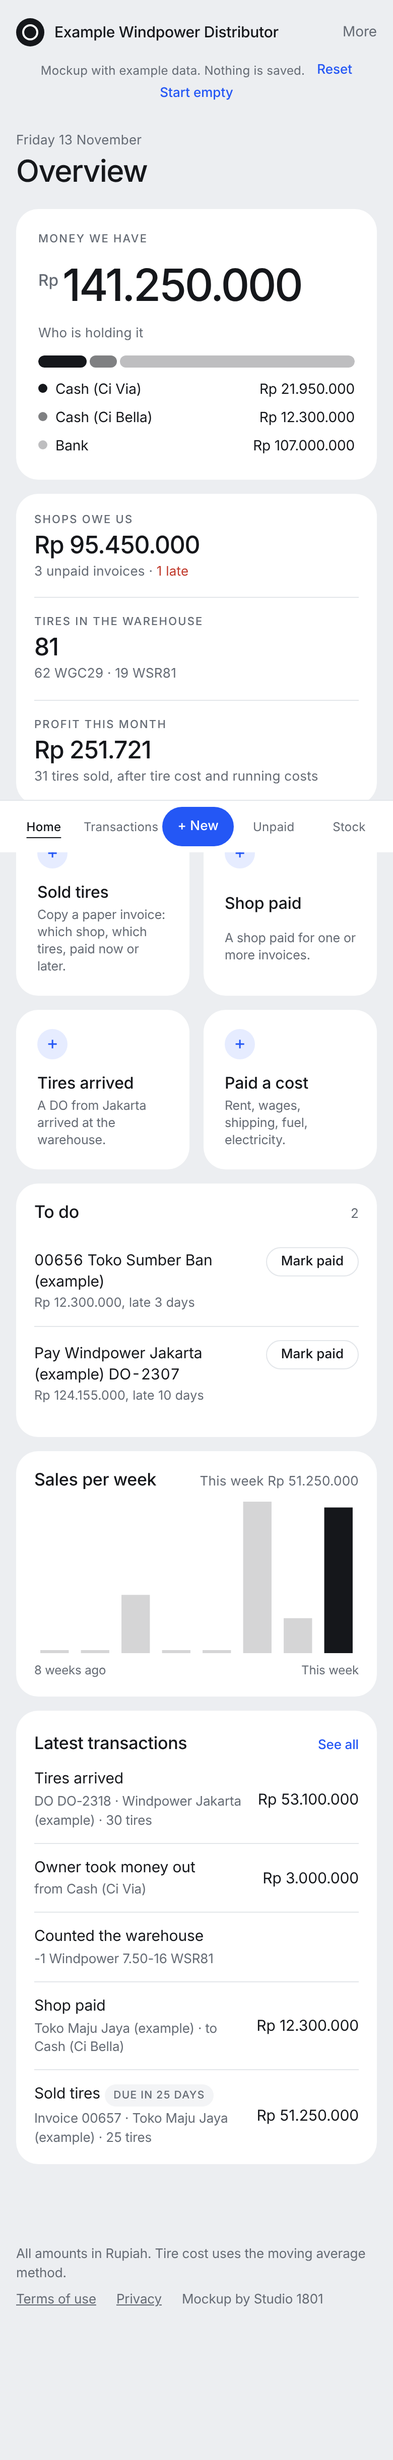
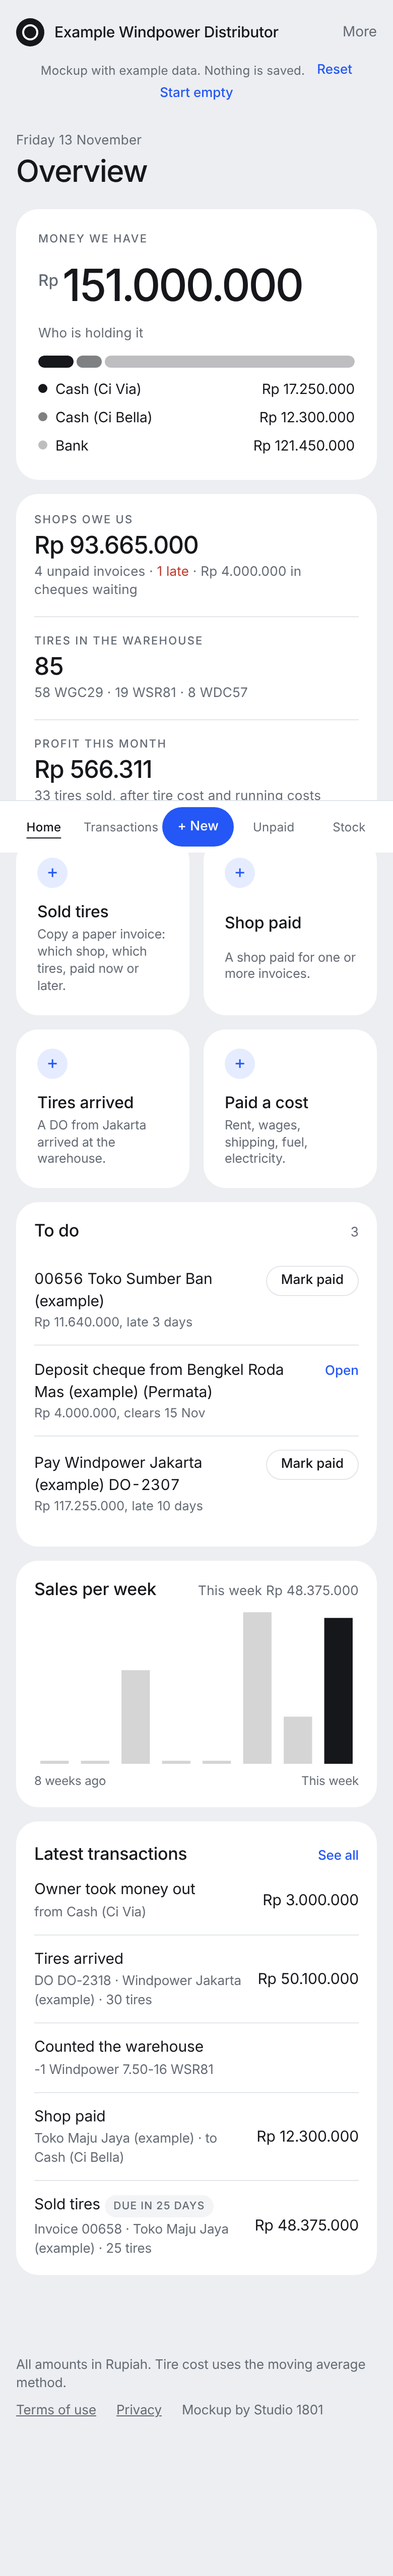
Cheques, per-shop prices, WDC57 and export in Ci Via's sheet layout
- Payment received asks cash, transfer or cheque/giro; a cheque counts as paid only from the day it clears, with reminders and a waiting list
- Sale price fills in with what that shop paid last time
- WDC57 added; example prices now vary per shop like the real sheet
- Download a month's sales with the same columns as her Excel (No, Faktur, Tgl, Store/Customer, Type, Qty, Harga/qty, Total, Payment, Notes)

Claude-Session: https://claude.ai/code/session_01Lce5qZyKVYWdepefwCyP9o

diff --git a/index.html b/index.html
@@ -415,28 +415,37 @@ S.live.entries=[];S.live.members=[];
 let _demo=null;
 function DEMO(){
   if(_demo)return _demo;
-  const products={p1:{brand:'Windpower',size:'7.50-16',pattern:'WGC29',cat:'Truck',price:2050000,low:15},p2:{brand:'Windpower',size:'7.50-16',pattern:'WSR81',cat:'Truck',price:2050000,low:15}};
-  const contacts={c1:{name:'Windpower Jakarta (example)',kind:'supplier',phone:''},c2:{name:'Toko Sumber Ban (example)',kind:'customer',phone:''},c3:{name:'Toko Maju Jaya (example)',kind:'customer',phone:''},c4:{name:'UD Lancar Lahat (example)',kind:'customer',phone:''}};
+  const products={p1:{brand:'Windpower',size:'7.50-16',pattern:'WGC29',cat:'Truck',price:1950000,low:15},p2:{brand:'Windpower',size:'7.50-16',pattern:'WSR81',cat:'Truck',price:1950000,low:15},p3:{brand:'Windpower',size:'7.50-16',pattern:'WDC57',cat:'Truck',price:1950000,low:0}};
+  const contacts={c1:{name:'Windpower Jakarta (example)',kind:'supplier',phone:''},c2:{name:'Toko Sumber Ban (example)',kind:'customer',phone:''},c3:{name:'Toko Maju Jaya (example)',kind:'customer',phone:''},c4:{name:'UD Lancar Lahat (example)',kind:'customer',phone:''},c5:{name:'Bengkel Roda Mas (example)',kind:'customer',phone:''}};
   let i=0;const E=(off,o)=>Object.assign({id:'x'+(++i),d:addDays(off),ts:i,note:''},o);
   const entries=[
-    E(-45,{t:'opening',bal:{cash:15000000,bella:0,bank:120000000},lines:[{p:'p1',q:30,c:1760000},{p:'p2',q:20,c:1790000}],recv:[{k:'c3',a:12300000,nota:'00640',due:addDays(-6)}],pay:[{k:'c1',a:35000000,nota:'DO-2291',due:addDays(-15)}]}),
-    E(-40,{t:'purchase',k:'c1',nota:'DO-2307',lines:[{p:'p1',qd:40,q:40,c:1765000},{p:'p2',qd:30,q:29,c:1795000}],extra:1500000,paid:0,acct:'bank',term:'30',due:addDays(-10),note:'One WSR81 short, claimed to Jakarta'}),
-    E(-38,{t:'sale',k:'c2',nota:'00651',lines:[{p:'p1',q:10,u:2050000}],disc:0,ship:0,term:'14',due:addDays(-24),paid:0,acct:'cash'}),
+    E(-45,{t:'opening',bal:{cash:15000000,bella:0,bank:120000000},lines:[{p:'p1',q:30,c:1660000},{p:'p2',q:20,c:1690000},{p:'p3',q:12,c:1640000}],recv:[{k:'c3',a:12300000,nota:'00640',due:addDays(-6)}],pay:[{k:'c1',a:35000000,nota:'DO-2291',due:addDays(-15)}]}),
+    E(-40,{t:'purchase',k:'c1',nota:'DO-2307',lines:[{p:'p1',qd:40,q:40,c:1665000},{p:'p2',qd:30,q:29,c:1695000}],extra:1500000,paid:0,acct:'bank',term:'30',due:addDays(-10),note:'One WSR81 short, claimed to Jakarta'}),
+    E(-38,{t:'sale',k:'c2',nota:'00651',lines:[{p:'p1',q:10,u:1935000}],disc:0,ship:0,term:'14',due:addDays(-24),paid:0,acct:'cash'}),
+    E(-36,{t:'sale',k:'c5',nota:'00652',lines:[{p:'p3',q:4,u:1950000},{p:'p1',q:2,u:1950000}],disc:0,ship:0,term:'cash',paid:11700000,acct:'cash'}),
     E(-30,{t:'pay',k:'c1',a:35000000,acct:'bank',alloc:[]}),
-    E(-28,{t:'recv',k:'c2',a:20500000,acct:'bella',alloc:[]}),
+    E(-28,{t:'recv',k:'c2',a:19350000,acct:'bella',alloc:[],method:'cash'}),
     E(-25,{t:'expense',cat:'Rent',a:3500000,acct:'bank'}),
-    E(-20,{t:'sale',k:'c3',nota:'00654',lines:[{p:'p2',q:8,u:2050000}],disc:0,ship:0,term:'cash',paid:16400000,acct:'cash'}),
-    E(-15,{t:'sale',k:'c4',nota:'00655',lines:[{p:'p1',q:12,u:2050000},{p:'p2',q:6,u:2050000}],disc:0,ship:450000,shipAcct:'cash',term:'30',due:addDays(15),paid:5000000,acct:'bank'}),
-    E(-12,{t:'transfer',from:'bella',to:'bank',a:20500000}),
-    E(-10,{t:'sale',k:'c2',nota:'00656',lines:[{p:'p1',q:6,u:2050000}],disc:0,ship:0,term:'7',due:addDays(-3),paid:0,acct:'cash'}),
+    E(-20,{t:'sale',k:'c3',nota:'00654',lines:[{p:'p2',q:8,u:1950000}],disc:0,ship:0,term:'cash',paid:15600000,acct:'bank'}),
+    E(-15,{t:'sale',k:'c4',nota:'00655',lines:[{p:'p1',q:12,u:1925000},{p:'p2',q:6,u:1925000}],disc:0,ship:450000,shipAcct:'cash',term:'30',due:addDays(15),paid:5000000,acct:'bank'}),
+    E(-12,{t:'transfer',from:'bella',to:'bank',a:19350000}),
+    E(-10,{t:'sale',k:'c2',nota:'00656',lines:[{p:'p1',q:6,u:1940000}],disc:0,ship:0,term:'7',due:addDays(-3),paid:0,acct:'cash'}),
+    E(-9,{t:'sale',k:'c5',nota:'00657',lines:[{p:'p1',q:2,u:2000000}],disc:0,ship:0,term:'30',due:addDays(21),paid:0,acct:'cash'}),
     E(-8,{t:'expense',cat:'Salaries and wages',a:6000000,acct:'cash'}),
-    E(-5,{t:'sale',k:'c3',nota:'00657',lines:[{p:'p2',q:15,u:2050000},{p:'p1',q:10,u:2050000}],disc:0,ship:0,term:'30',due:addDays(25),paid:0,acct:'cash'}),
-    E(-3,{t:'recv',k:'c3',a:12300000,acct:'bella',alloc:[]}),
+    E(-6,{t:'recv',k:'c5',a:4000000,acct:'bank',alloc:[],method:'cheque',chqBank:'Permata',clear:addDays(2)}),
+    E(-5,{t:'sale',k:'c3',nota:'00658',lines:[{p:'p2',q:15,u:1935000},{p:'p1',q:10,u:1935000}],disc:0,ship:0,term:'30',due:addDays(25),paid:0,acct:'cash'}),
+    E(-3,{t:'recv',k:'c3',a:12300000,acct:'bella',alloc:[],method:'cash'}),
     E(-2,{t:'adjust',lines:[{p:'p2',q:-1}],note:'One tire damaged in the warehouse'}),
     E(-1,{t:'draw',a:3000000,acct:'cash'}),
-    E(-1,{t:'purchase',k:'c1',nota:'DO-2318',lines:[{p:'p1',qd:30,q:30,c:1770000}],extra:0,paid:0,acct:'bank',term:'30',due:addDays(29)})
+    E(-1,{t:'purchase',k:'c1',nota:'DO-2318',lines:[{p:'p1',qd:30,q:30,c:1670000}],extra:0,paid:0,acct:'bank',term:'30',due:addDays(29)})
   ];
   _demo={products,contacts,setup:{name:'Example Windpower Distributor'},entries};return _demo;
+}
+const effDate=e=>(e.t==='recv'&&e.method==='cheque'&&e.clear)?e.clear:e.d;
+function ordered(){
+  const k='ord'+S.ver+'|'+S.demo;if(S.cache[k])return S.cache[k];
+  const pri=t=>t==='opening'?0:t==='purchase'?1:2;
+  return S.cache[k]=D().entries.slice().sort((a,b)=>{const x=effDate(a),y=effDate(b);return x<y?-1:x>y?1:(pri(a.t)-pri(b.t))||((a.ts||0)-(b.ts||0));});
 }
 function liveEntries(){
   const k='le'+S.ver;if(S.cache[k])return S.cache[k];
@@ -463,7 +472,7 @@ function compute(from,to,ex){
   let eqOpen=0,cap=0,draw=0,profit=0,open=null;
   const P={goods:0,disc:0,cogs:0,trueUp:0,exp:{},adj:0,sales:0,tires:0};
   const C={openIn:0,saleCash:0,arIn:0,capIn:0,buyCash:0,apOut:0,expOut:0,drawOut:0};
-  const recvBy={},warn=[];
+  const recvBy={},warn=[];let curD='';
   const sk=p=>st[p]||(st[p]={q:0,v:0,last:0});
   const mv=(a,x)=>{a=a||'cash';bal[a]=(bal[a]||0)+x;};
   const avg=s=>s.q>0?s.v/s.q:s.last;
@@ -474,14 +483,16 @@ function compute(from,to,ex){
   const putIn=(s,q,v)=>{let varc=0;if(s.q<0&&q>0){const cover=Math.min(-s.q,q),oldUnit=s.v/s.q,newUnit=v/q;varc=Math.round(cover*(newUnit-oldUnit));}s.q+=q;s.v+=v-varc;settle(s);return varc;};
   const addInv=(side,k,o)=>{const c=credit[side][k]||0;if(c>0){const t=Math.min(c,o.open);o.open-=t;credit[side][k]=c-t;}o.k=k;o.side=side;(inv[side][k]||(inv[side][k]=[])).push(o);byId[o.id]=o;};
   const payInv=(side,k,amt,alloc)=>{const L=inv[side][k]||[];let left=amt;
-    for(const id of alloc||[]){const o=L.find(x=>x.id===id);if(o&&left>0&&o.open>0){const t=Math.min(o.open,left);o.open-=t;left-=t;}}
-    for(const o of L.filter(x=>x.open>0.5).sort((a,b)=>a.due<b.due?-1:a.due>b.due?1:0)){if(left<=0)break;const t=Math.min(o.open,left);o.open-=t;left-=t;}
+    for(const id of alloc||[]){const o=L.find(x=>x.id===id);if(o&&left>0&&o.open>0){const t=Math.min(o.open,left);o.open-=t;left-=t;if(o.open<0.5)o.paidOn=curD;}}
+    for(const o of L.filter(x=>x.open>0.5).sort((a,b)=>a.due<b.due?-1:a.due>b.due?1:0)){if(left<=0)break;const t=Math.min(o.open,left);o.open-=t;left-=t;if(o.open<0.5)o.paidOn=curD;}
     if(left>0.5)credit[side][k]=(credit[side][k]||0)+left;};
   const owe=(side,e,tot,paid)=>{const o=tot-paid;if(o>0.5)addInv(side,e.k,{id:e.id,nota:e.nota||'',d:e.d,due:e.due||e.d,total:tot,open:o});else if(o<-0.5)credit[side][e.k]=(credit[side][e.k]||0)-o;};
-  for(const e of D().entries){
-    if(e.d>to)break;
+  const T0=today(),pending=[];
+  for(const e of ordered()){
+    const ed=effDate(e);if(ed>to)break;curD=ed;
+    if(e.t==='recv'&&e.method==='cheque'&&ed>T0){if(!(ex&&e.id===ex))pending.push(e);continue;}
     if(ex&&e.id===ex)continue;
-    const inP=e.d>=from;
+    const inP=ed>=from;
     if(inP&&!open)open={tot:Object.values(bal).reduce((a,b)=>a+b,0)};
     switch(e.t){
       case 'opening':{let tot=0;const b=Object.assign({},e.bal||{});if(e.cash)b.cash=(b.cash||0)+n(e.cash);if(e.bank)b.bank=(b.bank||0)+n(e.bank);
@@ -518,7 +529,7 @@ function compute(from,to,ex){
   const openInv=sd=>Object.values(inv[sd]).flat().filter(o=>o.open>0.5).sort((a,b)=>a.due<b.due?-1:a.due>b.due?1:0);
   const stockVal=Object.values(st).reduce((a,s)=>a+s.v,0);
   const assets=money+arTot+stockVal,equity=eqOpen+cap-draw+profit;
-  return S.cache[key]={st,bal,money,ar,ap,arTot,apTot,arGross:gross('ar'),arCredit:cred('ar'),apGross:gross('ap'),apCredit:cred('ap'),inv,byId,openAR:openInv('ar'),openAP:openInv('ap'),credit,open,P,C,recvBy,warn,stockVal,assets,equity,eqOpen,cap,draw,profit,diff:assets-apTot-equity};
+  return S.cache[key]={pending,st,bal,money,ar,ap,arTot,apTot,arGross:gross('ar'),arCredit:cred('ar'),apGross:gross('ap'),apCredit:cred('ap'),inv,byId,openAR:openInv('ar'),openAP:openInv('ap'),credit,open,P,C,recvBy,warn,stockVal,assets,equity,eqOpen,cap,draw,profit,diff:assets-apTot-equity};
 }
 const now=()=>compute(START,FAR);
 function status(o){const t=today();if(o.due<t){const k=daysBetween(o.due,t);return {late:true,txt:`Late ${k} day${k===1?'':'s'}`};}const k=daysBetween(t,o.due);return {late:false,txt:k===0?'Due today':`Due in ${k} day${k===1?'':'s'}`};}
@@ -584,6 +595,7 @@ function describe(e,c){
     default:return '';
   }
 }
+function lastPrice(k,p){if(!k||!p)return 0;const L=D().entries;for(let i=L.length-1;i>=0;i--){const e=L[i];if(e.t==='sale'&&e.k===k){const l=(e.lines||[]).find(x=>x.p===p&&n(x.q)>0);if(l)return n(l.u);}}return 0;}
 function nextNota(){
   let best=null;for(const e of D().entries){if(e.t!=='sale'||!e.nota)continue;const m=String(e.nota).match(/^(\D*)(\d+)(\D*)$/);if(!m)continue;const v=parseInt(m[2],10);if(!best||v>best.v)best={v,m};}
   if(!best)return '';return best.m[1]+String(best.v+1).padStart(best.m[2].length,'0')+best.m[3];
@@ -611,7 +623,7 @@ function skeleton(){return `<section class="wrap" aria-busy="true"><span class="
 function newDraft(t,d){
   const la=lsGet('tsb-acct')||accts()[0].id;
   const dr={t,d:d||today(),k:'',nota:'',term:'cash',due:'',lines:[{p:'',q:'',qd:'',x:''}],disc:'',ship:'',shipAcct:la,extra:'',paid:'',acct:la,a:'',cat:cats()[0],note:'',
-    from:accts().some(a=>a.id==='bella')?'bella':accts()[0].id,to:accts().some(a=>a.id==='bank')?'bank':accts()[accts().length-1].id,bal:{},recv:[],pay:[],alloc:[]};
+    from:accts().some(a=>a.id==='bella')?'bella':accts()[0].id,to:accts().some(a=>a.id==='bank')?'bank':accts()[accts().length-1].id,bal:{},recv:[],pay:[],alloc:[],method:'cash',chqBank:'',clear:''};
   if(t==='sale')dr.nota=nextNota();
   if(t==='purchase'){dr.k=lastSupplier();dr.term='30';dr.acct=accts().some(a=>a.id==='bank')?'bank':la;}
   if(t==='pay'){dr.k=lastSupplier();dr.acct=accts().some(a=>a.id==='bank')?'bank':la;}
@@ -625,7 +637,7 @@ function draftFrom(e){
   d.cat=e.cat||d.cat;d.from=e.from||'cash';d.to=e.to||(d.from==='bank'?'cash':'bank');
   const b=Object.assign({},e.bal||{});if(e.cash)b.cash=(b.cash||0)+n(e.cash);if(e.bank)b.bank=(b.bank||0)+n(e.bank);d.bal={};for(const k in b)d.bal[k]=fmt(b[k]);
   d.recv=(e.recv||[]).map(r=>({name:cname(r.k),a:fmt(r.a),nota:r.nota||'',due:r.due||''}));d.pay=(e.pay||[]).map(r=>({name:cname(r.k),a:fmt(r.a),nota:r.nota||'',due:r.due||''}));
-  d.alloc=(e.alloc||[]).slice();
+  d.alloc=(e.alloc||[]).slice();d.method=e.method||'cash';d.chqBank=e.chqBank||'';d.clear=e.clear||'';
   return d;
 }
 function dueOf(d){if(d.term==='cash')return '';if(d.term==='date')return d.due||'';return addDaysTo(d.d,parseInt(d.term,10)||0);}
@@ -687,7 +699,9 @@ function formHTML(){
     ${termsHTML('Paid now as a deposit (optional)','Money received by')}${note}`;
   else if(t==='purchase')body=`<div class="grid2">${date}${F('DO number',I('nota','class="notano" placeholder="DO number"'))}${F('Supplier',I('k','list="dl-contacts"'))}</div>${linesHTML('purchase')}
     <div class="grid2">${F('Truck or delivery cost',I('extra',MONEY+' placeholder="0"'))}</div>${termsHTML('Paid now (optional)','Paid from')}${note}`;
-  else if(t==='recv'||t==='pay')body=`<div class="grid2">${date}${F(t==='recv'?'Shop':'Supplier',I('k','list="dl-contacts"'))}${F('Amount',I('a',MONEY))}${F(t==='recv'?'Money received by':'Paid from',acctSel('acct',d.acct))}</div>
+  else if(t==='recv'||t==='pay')body=`${t==='recv'?`<div class="stack" style="gap:10px"><span class="micro">How did they pay?</span><div class="seg" role="group" aria-label="How did they pay">${[['cash','Cash'],['transfer','Bank transfer'],['cheque','Cheque or giro']].map(([v,l])=>`<button type="button" data-act="method" data-v="${v}" aria-pressed="${d.method===v}">${l}</button>`).join('')}</div></div>`:''}
+    <div class="grid2">${date}${F(t==='recv'?'Shop':'Supplier',I('k','list="dl-contacts"'))}${F('Amount',I('a',MONEY))}${F(t==='recv'?(d.method==='cheque'?'Will be deposited into':d.method==='transfer'?'Transferred into':'Money received by'):'Paid from',acctSel('acct',d.acct))}
+    ${t==='recv'&&d.method==='cheque'?F('Bank on the cheque',I('chqBank','placeholder="Permata, BCA, BRI"'))+F('Clears on',`<input type="date" id="f-clear" data-f="clear" value="${esc(d.clear)}">`):''}</div>
     <div class="stack" style="gap:6px"><span class="micro">${t==='recv'?'Which invoices does this pay?':'Which DOs does this pay?'}</span><div id="allocBox"></div></div>${note}`;
   else if(t==='expense')body=`<div class="grid2">${date}${F('What for',`<select id="f-cat" data-f="cat">${cats().map(c=>`<option${c===d.cat?' selected':''}>${esc(c)}</option>`).join('')}</select>`)}${F('Amount',I('a',MONEY))}${F('Paid from',acctSel('acct',d.acct))}</div>${note}`;
   else if(t==='adjust')body=`<div class="grid2">${date}</div>${linesHTML('adjust')}${note}`;
@@ -737,6 +751,7 @@ function updateNota(){
     else{if(T.paid)h+=ln(`Paid now, ${esc(aname(d.acct))}`,fmt(T.paid));h+=ln(t==='sale'?'Still to collect':'Still to pay',`<span class="${rest<0?'neg':''}">${fmt(rest)}</span>`);h+=ln('Due',due?nice(due):'<span class="neg">Pick a date</span>');}
     if(t==='sale'&&valid.length){
       let cost=0;const w=[];valid.forEach(l=>{const s=c.st[l.p]||{q:0,v:0,last:0};const a=s.q>0?s.v/s.q:s.last;cost+=n(l.q)*a;if(n(l.q)>s.q&&!S.editing)w.push(`Only ${s.q} of ${pH(l.p)} on record.`);});
+      const kk=cidByName(d.k);valid.forEach(l=>{const lp=lastPrice(kk,l.p);if(lp&&lp!==n(l.x))h+=`<p class="small">${esc(d.k)} paid ${rp(lp)} for ${pH(l.p)} last time.</p>`;});
       h+='<hr>'+ln('What these tires cost you',fmt(cost));if(n(d.ship))h+=ln('Shipping',`-${fmt(n(d.ship))}`);h+=ln('You make on this invoice',M(T.total-cost-n(d.ship)));
       if(w.length)h+=`<p class="small neg">${w.join(' ')} Record the goods received first, or the profit will look too high.</p>`;
     }
@@ -745,7 +760,8 @@ function updateNota(){
     const tot=valid.reduce((a,l)=>{const s=c.st[l.p]||{q:0,v:0,last:0};return a+n(l.q)*(s.q>0?s.v/s.q:s.last);},0);
     h+=`<hr><span class="micro">Effect on profit</span><div class="big">${M(tot)}</div>`;
   }else if(t==='recv'||t==='pay'){
-    h+=`<div class="big">${M(T.total)}</div>`+ln(t==='recv'?'Received by':'Paid from',esc(aname(d.acct)));
+    h+=`<div class="big">${M(T.total)}</div>`+ln(t==='recv'?(d.method==='cheque'?'Deposit into':'Received by'):'Paid from',esc(aname(d.acct)));
+    if(t==='recv'&&d.method==='cheque'&&d.clear)h+=`<p class="small">Cheque${d.chqBank?' '+esc(d.chqBank):''}, clears ${esc(nice(d.clear))}. ${d.clear>today()?'Until then the invoice stays unpaid, marked as cheque waiting, and the money is not counted yet.':'Already cleared, so it counts as paid.'}</p>`;
     const k=cidByName(d.k);if(k){const side=t==='recv'?'ar':'ap';const list=openFor(side,k);const sim=simulate(list,T.total,d.alloc);
       const used=sim.L.filter(x=>x.take>0);if(used.length)h+='<hr>'+used.map(x=>ln(`<span class="notano">${esc(x.o.nota||'No number')}</span>`,x.left<0.5?'Fully paid':`${fmt(x.take)} paid, ${fmt(x.left)} left`)).join('');
       if(sim.left>0.5)h+=`<p class="small">${fmt(sim.left)} more than what is owed. Kept as credit for the next ${side==='ar'?'invoice':'DO'}.</p>`;
@@ -775,7 +791,7 @@ function mountForm(){
     if(el.dataset.alloc){const id=el.dataset.alloc;d.alloc=d.alloc.filter(x=>x!==id);if(el.checked)d.alloc.push(id);
       const k=cidByName(d.k),list=openFor(d.t==='recv'?'ar':'ap',k);const sum=list.filter(o=>d.alloc.includes(o.id)).reduce((s,o)=>s+o.open,0);
       if(d.alloc.length){d.a=fmt(sum);const ai=$('#f-a');if(ai)ai.value=d.a;}updateNota();return;}
-    if(el.dataset.lf==='p'&&d.t==='sale'){const l=d.lines[+el.dataset.li];const p=D().products[l.p];if(p&&!n(l.x)&&n(p.price)){l.x=fmt(p.price);const x=$('#l-'+el.dataset.li+'-x');if(x)x.value=l.x;}updateNota();}
+    if(el.dataset.lf==='p'&&d.t==='sale'){const l=d.lines[+el.dataset.li];const p=D().products[l.p];const lp=lastPrice(cidByName(d.k),l.p);if(p&&!n(l.x)&&(lp||n(p.price))){l.x=fmt(lp||p.price);const x=$('#l-'+el.dataset.li+'-x');if(x)x.value=l.x;}updateNota();}
     if(el.dataset.f==='ship'){drawForm();return;}
     if(el.dataset.f==='acct'){lsSet('tsb-acct',el.value);}
     if(el.dataset.f)updateNota();});
@@ -783,6 +799,7 @@ function mountForm(){
   a.addEventListener('submit',ev=>{ev.preventDefault();doSave();});
   a.addEventListener('click',async ev=>{const b=ev.target.closest('[data-act]');if(!b)return;const d=S.draft,act=b.dataset.act;
     if(act==='type'){S.draft=newDraft(b.dataset.t,d.d);drawForm();}
+    else if(act==='method'){d.method=b.dataset.v;if(d.method==='cheque'&&!d.clear)d.clear=addDaysTo(d.d,14);if(d.method!=='cash'&&accts().some(a=>a.id==='bank'))d.acct='bank';drawForm();}
     else if(act==='term'){d.term=b.dataset.v;if(d.term==='date'&&!d.due)d.due=addDaysTo(d.d,30);drawForm();}
     else if(act==='addline'){d.lines.push({p:'',q:'',qd:'',x:''});drawForm();}
     else if(act==='rmline'){d.lines.splice(+b.dataset.i,1);if(!d.lines.length)d.lines.push({p:'',q:'',qd:'',x:''});drawForm();}
@@ -823,6 +840,7 @@ async function doSave(){
     if(d.term!=='cash'&&!dueOf(d))return err('Pick the due date.');
   }
   if((t==='recv'||t==='pay')&&!d.k.trim())return err(t==='recv'?'Which shop paid?':'Who did you pay?');
+  if(t==='recv'&&d.method==='cheque'){if(!d.clear)return err('Pick the date the cheque clears.');if(d.clear<d.d)return err('The cheque cannot clear before the day you received it.');}
   if(['recv','pay','expense','capital','draw','transfer'].includes(t)&&!needAmt())return;
   if(t==='transfer'&&d.from===d.to)return err('From and To must be different.');
   if(t==='adjust'&&!lines.length)return err('Add at least one tire with a difference.');
@@ -833,6 +851,7 @@ async function doSave(){
     if(t==='sale')Object.assign(e,{nota,lines:lines.map(l=>({p:l.p,q:n(l.q),u:n(l.x)})),disc:n(d.disc),ship:n(d.ship),shipAcct:d.shipAcct||d.acct,term:d.term,due:dueOf(d),paid:T.paid,acct:d.acct});
     if(t==='purchase')Object.assign(e,{nota,lines:lines.map(l=>({p:l.p,qd:l.qd===''?n(l.q):n(l.qd),q:n(l.q),c:n(l.x)})),extra:n(d.extra),term:d.term,due:dueOf(d),paid:T.paid,acct:d.acct});
     if(t==='recv'||t==='pay')Object.assign(e,{a:n(d.a),acct:d.acct,alloc:d.alloc.slice()});
+    if(t==='recv'){e.method=d.method;if(d.method==='cheque'){e.chqBank=(d.chqBank||'').trim();e.clear=d.clear;}}
     if(t==='capital'||t==='draw')Object.assign(e,{a:n(d.a),acct:d.acct});
     if(t==='expense')Object.assign(e,{a:n(d.a),acct:d.acct,cat:d.cat});
     if(t==='transfer')Object.assign(e,{a:n(d.a),from:d.from,to:d.to});
@@ -873,7 +892,7 @@ function shortDesc(e){
   const q=(e.lines||[]).reduce((a,l)=>a+n(l.q),0),P=[];
   switch(e.t){
     case 'sale':P.push(e.nota&&'Invoice '+e.nota,cname(e.k),q+' tires');break;
-    case 'recv':P.push(cname(e.k),'to '+aname(e.acct));break;
+    case 'recv':P.push(cname(e.k),e.method==='cheque'?`cheque${e.chqBank?' '+e.chqBank:''}, clears ${short(e.clear)}`:(e.method==='transfer'?'transfer to ':'to ')+aname(e.acct));break;
     case 'purchase':P.push(e.nota&&'DO '+e.nota,cname(e.k),q+' tires');break;
     case 'pay':P.push(cname(e.k),'from '+aname(e.acct));break;
     case 'expense':P.push(e.cat,'from '+aname(e.acct));break;
@@ -889,6 +908,7 @@ function txnRow(e,c){
   const tot=entryTotal(e),o=c.byId[e.id];let chip='';
   if(e.t==='sale'&&o&&o.open>0.5)chip=stTag(o);
   if(e.t==='purchase'&&(e.lines||[]).some(l=>l.qd!=null&&n(l.qd)!==n(l.q)))chip='<span class="tag late">Count differs</span>';
+  if(e.t==='recv'&&e.method==='cheque'&&e.clear>today())chip='<span class="tag">Cheque waiting</span>';
   return `<button type="button" class="txn" data-act="view" data-id="${e.id}"><span class="tk">${esc(TYPES[e.t])} ${chip}</span><span class="tdsc">${shortDesc(e)}</span><span class="tamt">${tot==null?'':M(tot)}</span></button>`;
 }
 function effects(e){
@@ -898,7 +918,8 @@ function effects(e){
       if(paid)L.push(`${rp(paid)} received by ${aname(e.acct)}`);
       if(rest>0.5)L.push(`${cname(e.k)} owes ${rp(rest)} more, due ${nice(e.due)}`);
       if(n(e.ship))L.push(`Shipping ${rp(e.ship)} paid from ${aname(e.shipAcct||e.acct)}`);break;}
-    case 'recv':L.push(`${rp(e.a)} received by ${aname(e.acct)}`,`${cname(e.k)} owes ${rp(e.a)} less`);break;
+    case 'recv':if(e.method==='cheque'&&e.clear>today())L.push(`Cheque${e.chqBank?' '+e.chqBank:''} for ${rp(e.a)} waiting, clears ${nice(e.clear)}`,`From that day: ${aname(e.acct)} +${rp(e.a)}, ${cname(e.k)} owes ${rp(e.a)} less`);
+      else L.push(`${rp(e.a)} received${e.method==='cheque'?' (cheque cleared '+nice(e.clear)+')':''} by ${aname(e.acct)}`,`${cname(e.k)} owes ${rp(e.a)} less`);break;
     case 'purchase':{const tot=entryTotal(e),paid=n(e.paid);L.push(`Warehouse: ${qty} tires in`);
       (e.lines||[]).filter(l=>l.qd!=null&&n(l.qd)!==n(l.q)).forEach(l=>L.push(`${pname(l.p)}: DO says ${n(l.qd)}, warehouse counted ${n(l.q)}`));
       if(paid)L.push(`${rp(paid)} paid from ${aname(e.acct)}`);
@@ -924,6 +945,7 @@ function detailRows(e){
   const tot=entryTotal(e);if(tot!=null&&e.t!=='opening')add('Total',`<strong>${M(tot)}</strong>`);
   if(e.t==='sale'||e.t==='purchase')add('Payment',!e.term||e.term==='cash'?'Paid in full':`${e.term==='date'?'Credit':e.term+' days'}, due ${esc(nice(e.due))}${n(e.paid)?`, ${rp(e.paid)} paid now`:''}`);
   if(e.t==='expense')add('For',esc(e.cat));
+  if(e.t==='recv')add('How paid',e.method==='cheque'?`Cheque${e.chqBank?' '+esc(e.chqBank):''}, clears ${esc(nice(e.clear))}`:e.method==='transfer'?'Bank transfer':'Cash');
   if((e.t==='sale'&&n(e.paid))||e.t==='recv')add('Received by',esc(aname(e.acct)));
   if(['pay','expense','draw'].includes(e.t)||(e.t==='purchase'&&n(e.paid)))add('Paid from',esc(aname(e.acct)));
   if(e.t==='capital')add('Into',esc(aname(e.acct)));
@@ -957,6 +979,7 @@ function pageOverview(){
   const legend=holders.map(h=>`<div><span><i style="background:var(--ink);opacity:${h.o}"></i>${esc(h.name)}</span><span>${M(h.v)}</span></div>`).join('');
   const todo=[];
   late.forEach(o=>todo.push(`<div class="lrow"><span><span class="notano">${esc(o.nota||'No number')}</span> ${esc(cname(o.k))}<span class="ex neg">${rp(o.open)}, ${status(o).txt.toLowerCase()}</span></span>${editable()?`<button class="btn sm" data-act="pay-nota" data-id="${esc(o.id)}">Mark paid</button>`:''}</div>`));
+  c.pending.filter(e=>daysBetween(today(),e.clear)<=3).sort((a,b)=>a.clear<b.clear?-1:1).forEach(e=>todo.push(`<div class="lrow"><span>Deposit cheque from ${esc(cname(e.k))}${e.chqBank?' ('+esc(e.chqBank)+')':''}<span class="ex">${rp(e.a)}, clears ${esc(short(e.clear))}</span></span><button class="link" data-act="view" data-id="${e.id}">Open</button></div>`));
   apLate.forEach(o=>todo.push(`<div class="lrow"><span>Pay ${esc(cname(o.k))} <span class="notano">${esc(o.nota||'')}</span><span class="ex">${rp(o.open)}, ${status(o).txt.toLowerCase()}</span></span>${editable()?`<button class="btn sm" data-act="pay-do" data-id="${esc(o.id)}">Mark paid</button>`:''}</div>`));
   for(const [pid,s] of Object.entries(c.st)){const p=d.products[pid];if(!p)continue;if(s.q<0)todo.push(`<div class="lrow"><span>${pH(pid)}<span class="ex neg">Below zero. A DO is probably missing.</span></span><a class="link" href="#stock">Check</a></div>`);else if(n(p.low)&&s.q<=n(p.low))todo.push(`<div class="lrow"><span>${pH(pid)}<span class="ex">Only ${s.q} left. Time to request from Jakarta.</span></span></div>`);}
   const recent=d.entries.slice(-5).reverse().map(e=>txnRow(e,c)).join('');
@@ -968,7 +991,7 @@ function pageOverview(){
       <div class="card hero"><span class="micro">Money we have</span><span class="hero-n"><span class="cur">Rp</span>${fmt(c.money)}</span>
         <div class="stack" style="gap:12px"><span class="small">Who is holding it</span><div class="splitbar">${split}</div><div class="legend">${legend}</div></div></div>
       <div class="card side">
-        <a class="kpi" href="#unpaid"><span class="micro">Shops owe us</span><span class="mid">${rp(c.arTot)}</span><span class="small">${c.openAR.length} unpaid invoice${c.openAR.length===1?'':'s'}${late.length?` · <span class="neg">${late.length} late</span>`:''}</span></a>
+        <a class="kpi" href="#unpaid"><span class="micro">Shops owe us</span><span class="mid">${rp(c.arTot)}</span><span class="small">${c.openAR.length} unpaid invoice${c.openAR.length===1?'':'s'}${late.length?` · <span class="neg">${late.length} late</span>`:''}${c.pending.length?` · ${rp(c.pending.reduce((a,e)=>a+n(e.a),0))} in cheques waiting`:''}</span></a>
         <a class="kpi" href="#stock"><span class="micro">Tires in the warehouse</span><span class="mid">${qty}</span><span class="small">${perTire||'No tires yet'}</span></a>
         <div class="kpi"><span class="micro">Profit this month</span><span class="mid ${Math.round(m.P.profit)<0?'neg':''}">${rp(m.P.profit)}</span><span class="small">${m.P.tires} tires sold, after tire cost and running costs</span></div>
       </div>
@@ -1010,7 +1033,7 @@ function pageView(){
   <div class="hgrid2" style="margin-top:22px"><div class="card"><h2 class="ch" style="margin-bottom:6px">What was recorded</h2>${kvList(detailRows(e))}</div>
   <div class="card"><h2 class="ch" style="margin-bottom:6px">What it changed</h2>${effList(effects(e))}
   ${editable()?`<div class="row" style="margin-top:22px"><button class="btn primary" data-act="edit" data-id="${e.id}">Fix this</button>${o&&o.open>0.5?`<button class="btn" data-act="${o.side==='ar'?'pay-nota':'pay-do'}" data-id="${esc(o.id)}">Mark paid</button>`:''}<button class="link danger" data-act="del" data-id="${e.id}">${S.delArm===e.id?'Tap again to delete':'Delete'}</button></div>
-  <p class="small" style="margin-top:12px">Typed something wrong? Press Fix this, correct it and save. Every number and report updates by itself.</p>`:''}</div></div></section>`;
+  <p class="small" style="margin-top:12px">Typed something wrong? Press Fix this, correct it and save. Every number and report updates by itself.${e.t==='recv'&&e.method==='cheque'?' Cheque bounced? Delete this payment and the invoice becomes unpaid again.':''}</p>`:''}</div></div></section>`;
 }
 
 /* ---------- transactions list ---------- */
@@ -1032,18 +1055,21 @@ function pageJournal(){
   <label class="fld" style="flex:0 1 190px"><span class="micro">Month</span><input type="month" id="jr-month" value="${esc(j.month)}"></label></div>
   <div class="seg" style="margin-top:14px">${GROUPS.map(([v,l])=>`<button type="button" data-act="jr-g" data-v="${v}" aria-pressed="${(j.g||'all')===v}">${l}</button>`).join('')}</div>
   <div id="jrList" class="card list" style="margin-top:14px">${journalList()}</div>
-  <div class="row" style="margin-top:22px"><button class="link" data-act="jr-all">${j.month?'Show every month':'Show this month only'}</button><button class="link" data-act="export-journal">Download all as a spreadsheet (CSV)</button></div></section>`;
+  <div class="row" style="margin-top:22px"><button class="link" data-act="jr-all">${j.month?'Show every month':'Show this month only'}</button><button class="link" data-act="export-sheet">Download this month's sales in Ci Via's Excel layout</button><button class="link" data-act="export-journal">Download everything (CSV)</button></div></section>`;
 }
 
 /* ---------- unpaid ---------- */
 function pageUnpaid(){
   const c=now(),ed=editable(),ar=c.openAR,late=ar.filter(o=>status(o).late);
-  const row=(o,act)=>{const s=status(o);return `<div class="urow"><div><span class="notano">${esc(o.nota||'No number')}</span> ${esc(cname(o.k))}<div class="small ${s.late?'neg':''}">${esc(s.txt)} · ${esc(short(o.due))}${o.open<o.total-0.5?` · ${rp(o.total-o.open)} of ${rp(o.total)} paid`:''}</div></div><span class="uamt ${s.late?'neg':''}">${rp(o.open)}</span>${ed?`<button class="btn sm" data-act="${act}" data-id="${esc(o.id)}">Mark paid</button>`:''}</div>`;};
+  const row=(o,act)=>{const s=status(o);return `<div class="urow"><div><span class="notano">${esc(o.nota||'No number')}</span> ${esc(cname(o.k))}<div class="small ${s.late?'neg':''}">${esc(s.txt)} · ${esc(short(o.due))}${o.open<o.total-0.5?` · ${rp(o.total-o.open)} of ${rp(o.total)} paid`:''}</div>${o.side==='ar'?chqFor(o).map(e=>`<div class="small"><span class="tag">Cheque waiting</span> ${rp(e.a)}${e.chqBank?' '+esc(e.chqBank):''}, clears ${esc(short(e.clear))}</div>`).join(''):''}</div><span class="uamt ${s.late?'neg':''}">${rp(o.open)}</span>${ed?`<button class="btn sm" data-act="${act}" data-id="${esc(o.id)}">Mark paid</button>`:''}</div>`;};
   const credits=Object.entries(c.credit.ar).filter(([k,v])=>v>0.5);
+  const chq=c.pending.slice().sort((a,b)=>a.clear<b.clear?-1:1),chqTot=chq.reduce((a,e)=>a+n(e.a),0);
+  const chqFor=o=>chq.filter(e=>e.k===o.k&&(!(e.alloc||[]).length||(e.alloc||[]).includes(o.id)));
   return `<section class="wrap"><h1 class="h1">Unpaid invoices</h1>
   <p style="margin-top:14px;font-size:17px">Shops owe <strong>${rp(c.arTot)}</strong> on ${ar.length} invoice${ar.length===1?'':'s'}.${late.length?` <span class="neg">${late.length} ${late.length===1?'is':'are'} late.</span>`:''}</p>
   <p class="hint" style="margin-top:6px">When a shop pays anyone (Ci Via, Ci Bella or the bank), press Mark paid and choose who received the money.</p>
   <div class="card list" style="margin-top:20px">${ar.map(o=>row(o,'pay-nota')).join('')||'<p class="small" style="padding-block:14px">Every invoice is paid.</p>'}</div>
+  ${chq.length?`<div class="card list" style="margin-top:14px"><div class="chead" style="padding-top:16px;margin-bottom:0"><h2 class="ch">Cheques waiting to clear</h2><span class="small">${rp(chqTot)}</span></div>${chq.map(e=>`<button type="button" class="txn" data-act="view" data-id="${e.id}"><span class="tk">${esc(cname(e.k))}${e.chqBank?' · '+esc(e.chqBank):''}</span><span class="tdsc">Clears ${esc(nice(e.clear))}. Counted as paid from that day.</span><span class="tamt">${rp(e.a)}</span></button>`).join('')}</div>`:''}
   ${credits.length?`<p class="small" style="margin-top:14px">${credits.map(([k,v])=>`${esc(cname(k))} paid ${rp(v)} too much. It will go toward their next invoice.`).join(' ')}</p>`:''}</section>
   <div><section class="wrap"><details class="card" ${c.openAP.length?'open':''}><summary style="font-size:15px">What you still owe Jakarta and suppliers: ${rp(c.apTot)}</summary>
   <div style="margin-top:12px">${c.openAP.map(o=>row(o,'pay-do')).join('')||'<p class="small">Nothing owed.</p>'}</div></details></section></div>`;
@@ -1226,6 +1252,15 @@ document.addEventListener('click',async ev=>{
   else if(act==='pay-in'){startPayment('ar',id);}
   else if(act==='pay-out'){startPayment('ap',id);}
   else if(act==='jr-all'){S.jr.month=S.jr.month?'':today().slice(0,7);render();}
+  else if(act==='export-sheet'){const m=S.jr.month||today().slice(0,7),c=now(),dm=x=>x?x.slice(8,10)+'-'+x.slice(5,7)+'-'+x.slice(2,4):'';
+    const rows=[[`Windpower ${monthLabel(m+'-01').toUpperCase()}`],['No','Faktur','Tgl','Store/Customer','Type','Qty','Harga/qty','Total','Payment','Notes']];let no=0;
+    D().entries.filter(e=>e.t==='sale'&&e.d.slice(0,7)===m).forEach(e=>{const o=c.byId[e.id],tot=entryTotal(e);no++;
+      const pay=o&&o.open>0.5?'due '+dm(o.due):o&&o.paidOn?'Lunas '+dm(o.paidOn):((e.acct||'cash')==='bank'?'Trf ':'Tunai ')+dm(e.d);
+      const notes=[e.note,o&&o.open>0.5&&o.open<o.total-0.5?`paid ${rp(o.total-o.open)}, ${rp(o.open)} left`:'',...c.pending.filter(x=>x.k===e.k&&(!(x.alloc||[]).length||(x.alloc||[]).includes(e.id))).map(x=>`cheque${x.chqBank?' '+x.chqBank:''} ${dm(x.clear)}`),n(e.disc)?`discount ${rp(e.disc)}`:''].filter(Boolean).join('; ');
+      (e.lines||[]).forEach((l,i)=>{const pr=D().products[l.p];rows.push(i===0?[no,e.nota||'',dm(e.d),cname(e.k),pr?pr.size+' '+(pr.pattern||''):'',n(l.q),Math.round(n(l.u)),Math.round(n(l.q)*n(l.u)),pay,notes]:['','','','',pr?pr.size+' '+(pr.pattern||''):'',n(l.q),Math.round(n(l.u)),Math.round(n(l.q)*n(l.u)),'','']);});
+      if(n(e.disc))rows.push(['','','','','Discount','','',-Math.round(n(e.disc)),'','']);});
+    if(rows.length===2)return toast('No sales in '+monthLabel(m+'-01')+'.');
+    download(`windpower-${m}.csv`,rows);}
   else if(act==='export-journal'){const c=now();const rows=[['Date','Kind','Invoice or DO','Shop or supplier','Details','Total','Paid now','Payment terms','Due date','Money account','Recorded by','Note']];
     D().entries.forEach(e=>{const o=c.byId[e.id];rows.push([e.d,TYPES[e.t],e.nota||'',e.k?cname(e.k):'',plain(describe(e,null)),entryTotal(e)==null?'':Math.round(entryTotal(e)),e.paid!=null?Math.round(n(e.paid)):'',e.term?(e.term==='cash'?'Paid now':e.term==='date'?'Due date':e.term+' days'):'',e.due||'',e.t==='transfer'?aname(e.from)+' to '+aname(e.to):(e.acct?aname(e.acct):''),e.by||'',e.note||'']);});
     download('journal_'+today()+'.csv',rows);}
